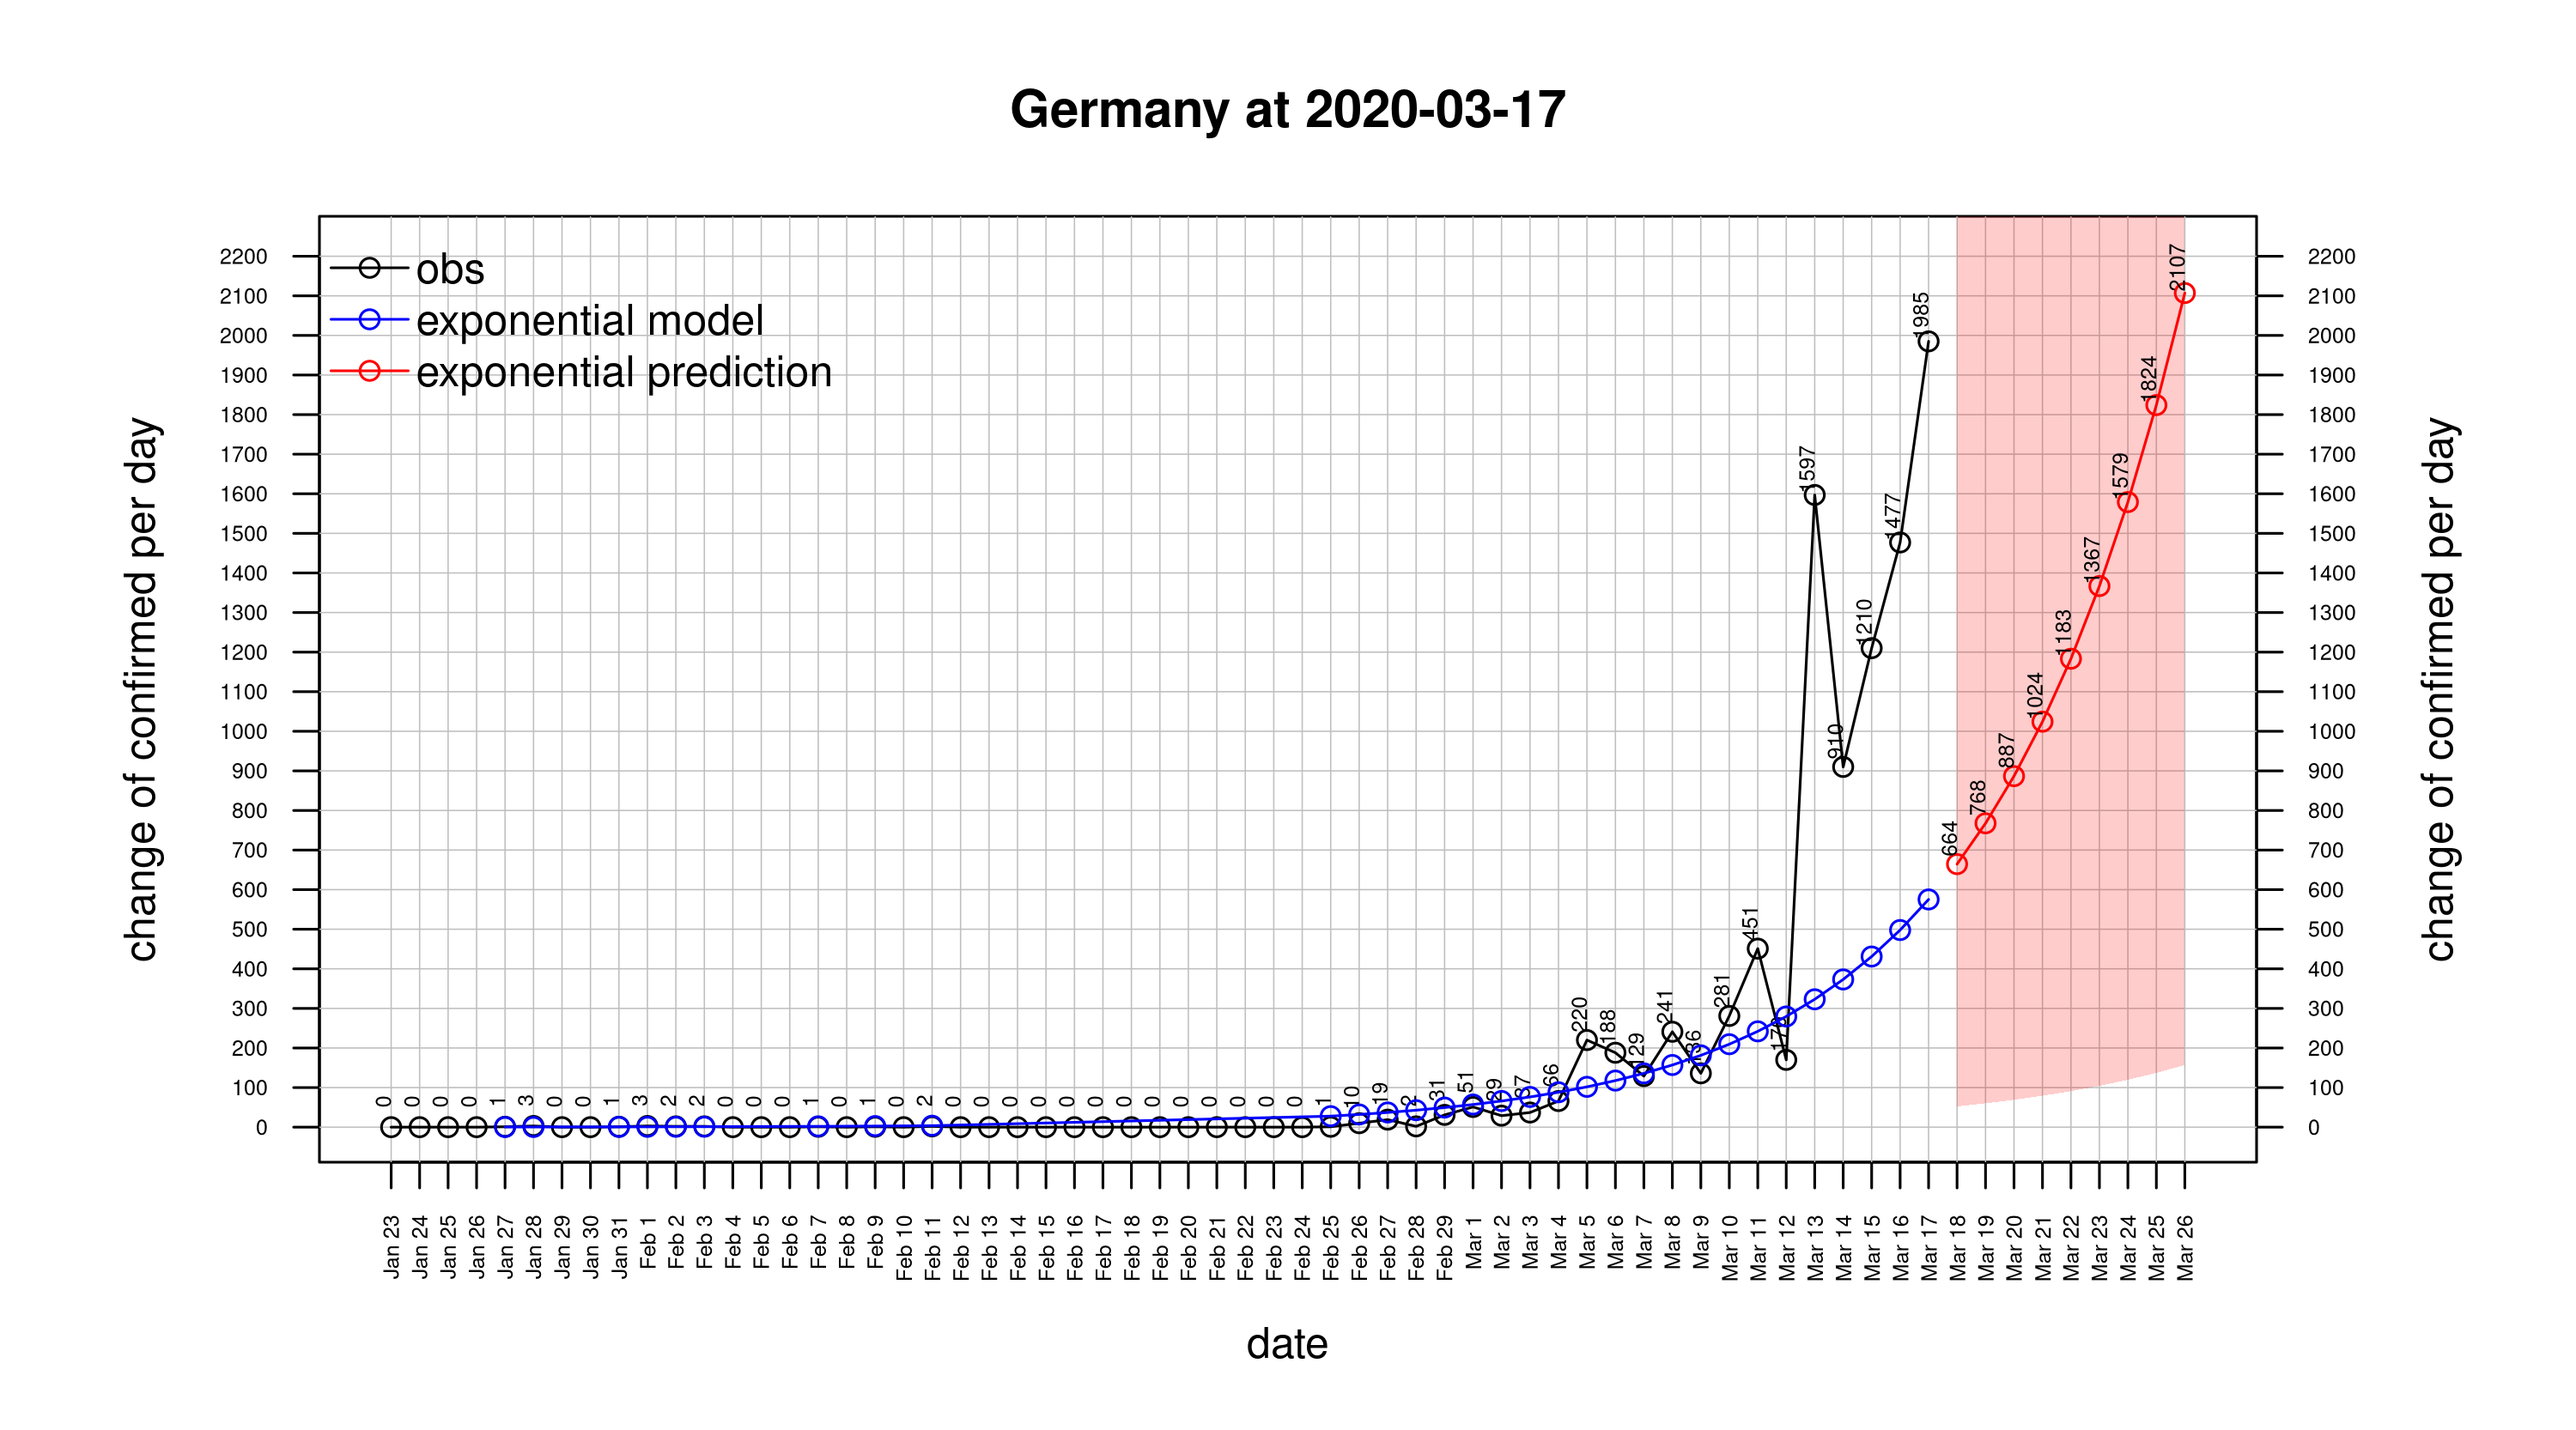
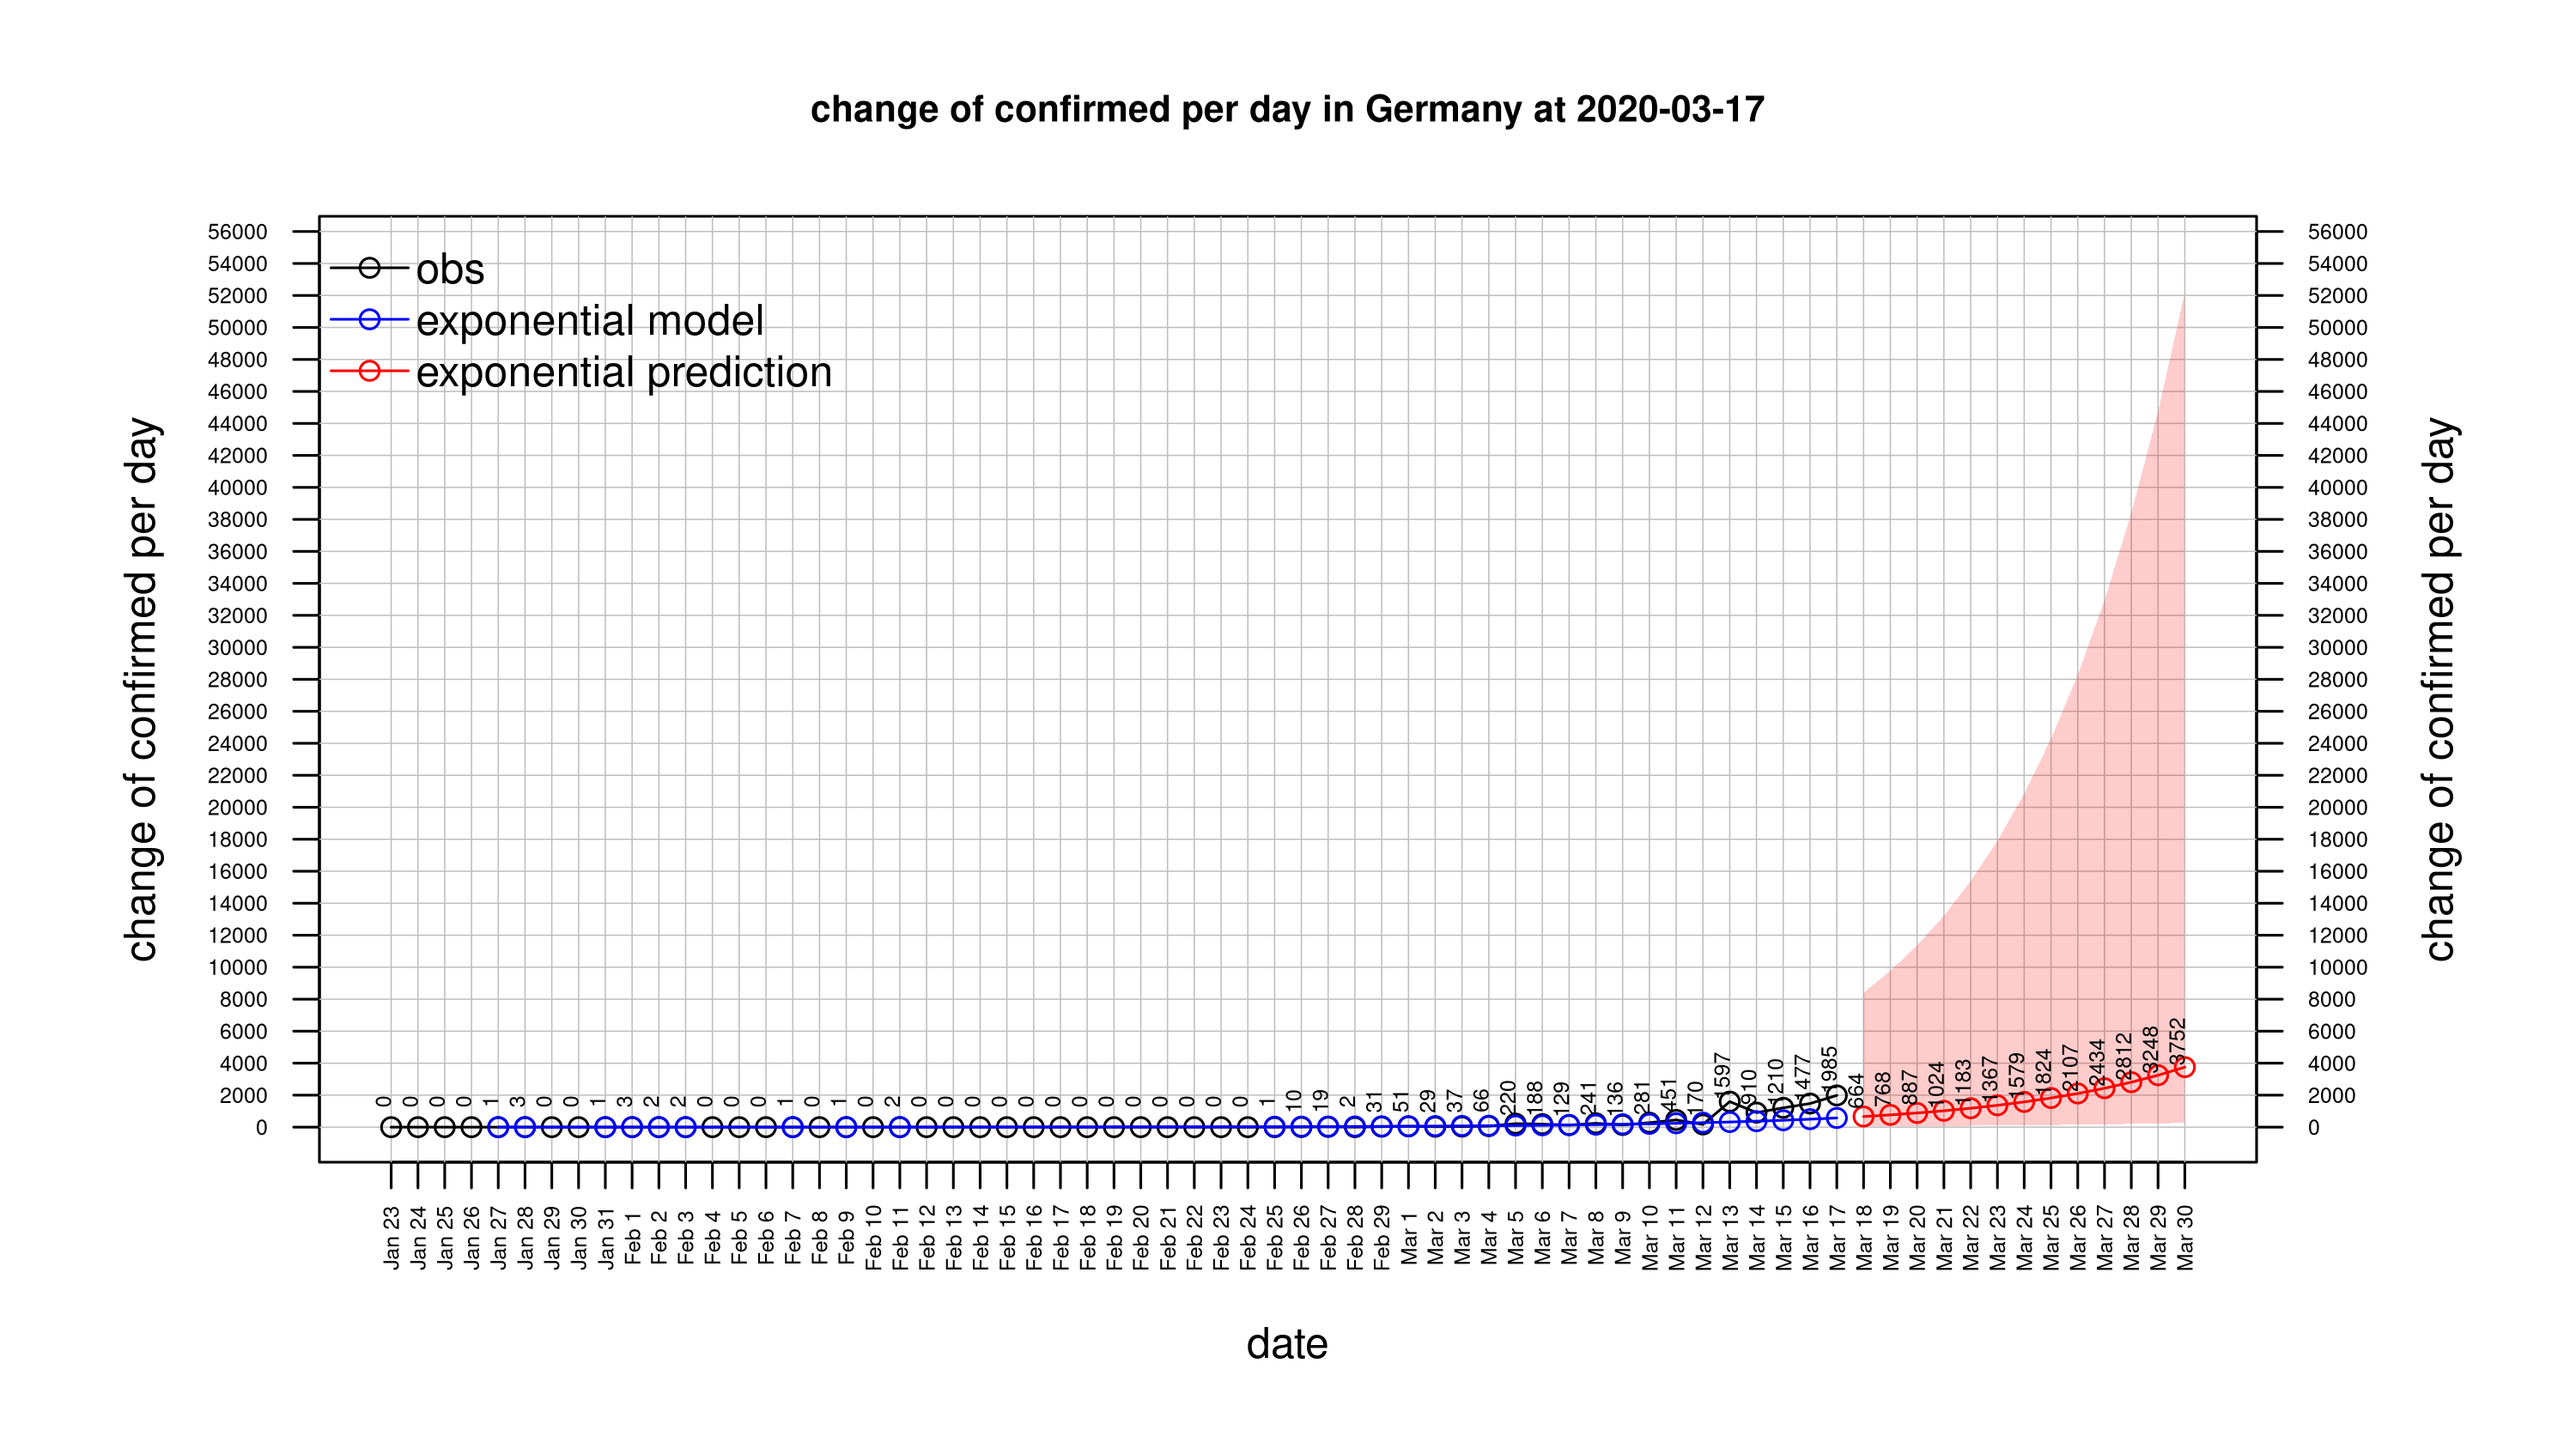
asd

Changed region(s): [[0.062, 0.1248, 0.93, 0.9052], [0.31, 0.0624, 0.682, 0.0936], [0.062, 0.1561, 0.124, 0.1873]]

diff --git a/r_plots/README.md b/r_plots/README.md
@@ -2,13 +2,13 @@
 
 Germany:
 <br>
-<img align="center" width="1000" src="plots/Germany_deaths.png">
+<img align="center" width="1000" src="plots/Germany_deaths_logy.png">
 <br>
-<img align="center" width="1000" src="plots/Germany_confirmed_per_day.png">
+<img align="center" width="1000" src="plots/Germany_confirmed_per_day_logy.png">
 <br>
-<img align="center" width="1000" src="plots/Germany_confirmed_cumulative.png">
+<img align="center" width="1000" src="plots/Germany_confirmed_cumulative_logy.png">
 <br>
-<img align="center" width="1000" src="plots/Germany_change_of_confirmed_per_day.png">
+<img align="center" width="1000" src="plots/Germany_change_of_confirmed_per_day_logy.png">
 <br>
 <br>
 
